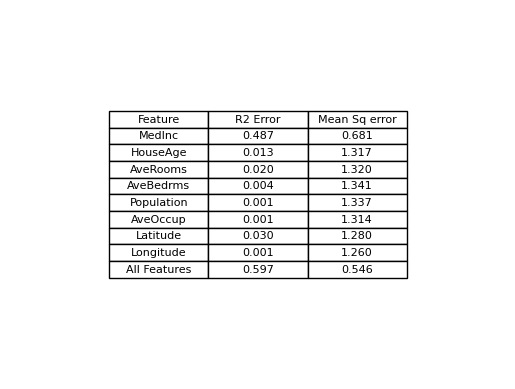
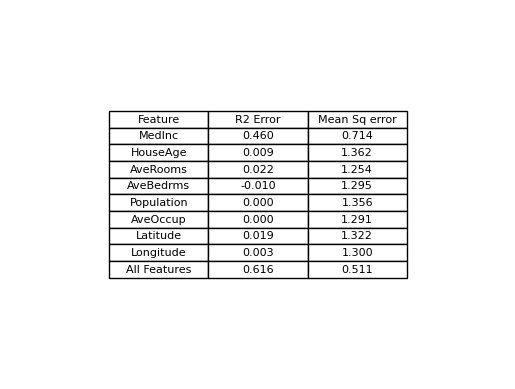
updated plots and readme

diff --git a/README.md b/README.md
@@ -1,1 +1,92 @@
-# calfornia_housing_price_predict
+
+# California Housing Price Prediction
+
+This Python project aims to analyze California housing data and predict housing prices using linear regression as the machine learning technique. The project utilizes the popular scikit-learn library for implementing linear regression and handling the machine learning aspects of the analysis.
+
+
+
+
+## Features
+
+    - Data Analysis: The project performs exploratory data analysis on the California housing dataset to understand the patterns and relationships in the data.
+
+    - Linear Regression: Linear regression is employed to build a predictive model for housing prices based on various features present in the dataset.
+
+    - Scikit-learn Library: The project leverages the scikit-learn library to implement the linear regression model, handle data preprocessing, and evaluate the model's performance.
+
+
+## File Structure
+
+
+    - ca_housing.ipynb: Jupyter Notebook containing the code for data analysis, model training, and predictions.
+
+    - result/: Directory containing the scatter plots of individual features vs housing price
+
+    - README.md: Project documentation providing an overview, usage instructions, and other relevant information.
+# California Housing Price Prediction
+
+This Python project aims to analyze California housing data and predict housing prices using linear regression as the machine learning technique. The project utilizes the popular scikit-learn library for implementing linear regression and handling the machine learning aspects of the analysis.
+
+
+
+
+## Dataset Description
+--------------------------
+
+**Data Set Characteristics:**
+
+    :Number of Instances: 20640
+
+    :Number of Attributes: 8 numeric, predictive attributes and the target
+
+    :Attribute Information:
+        - MedInc        median income in block group
+        - HouseAge      median house age in block group
+        - AveRooms      average number of rooms per household
+        - AveBedrms     average number of bedrooms per household
+        - Population    block group population
+        - AveOccup      average number of household members
+        - Latitude      block group latitude
+        - Longitude     block group longitude
+
+    :Missing Attribute Values: None
+
+This dataset was obtained from the StatLib repository.
+https://www.dcc.fc.up.pt/~ltorgo/Regression/cal_housing.html
+
+The target variable is the median house value for California districts,
+expressed in hundreds of thousands of dollars ($100,000).
+## Lessons Learned
+
+### Linear Regression
+
+        1. Its statistical method through which we can model the relationship between a dependent variable and one or more independent variables by fitting a linear equation to the observed data. 
+        
+        2. Linear equation : Y = a + bX
+          Y : dependent variable : Housing price in this project : plotted along Y axis
+          X : independent variable : any of feature available in the dataset : plotted along X axis
+          b : slope of line 
+          a : intercept (value of y when x = 0) 
+
+        3. The goal is to find the best-fitting line (or hyperplane in higher dimensions) that minimizes the sum of the squared differences between the observed and predicted values.
+    
+
+### Model Evalaution based on R2 score and Mean squared error (MSE)
+        MSE :
+            1. The squared term in MSE penalizes large errors more than small errors.
+            2. This means that the model is more sensitive to outliers or large deviations 
+            from the true values.
+            3. By squaring the errors, the MSE gives more weight to larger errors, making it suitable when large errors are considered more critical or when you want the model to pay more attention to extreme values.
+
+        R2 Score :
+            1.  It's used to evaluate the goodness of fit of the model to the data.
+            2. Also known as coefficient of determination. ranges from 0 to 1
+            3. A higher R2 score indicates a better fit of the linear regression model to the test  data. 
+            4. It can be interpreted as the proportion of the variance in the dependent variable (y) that is captured by the linear model.
+
+
+
+
+
+
+
